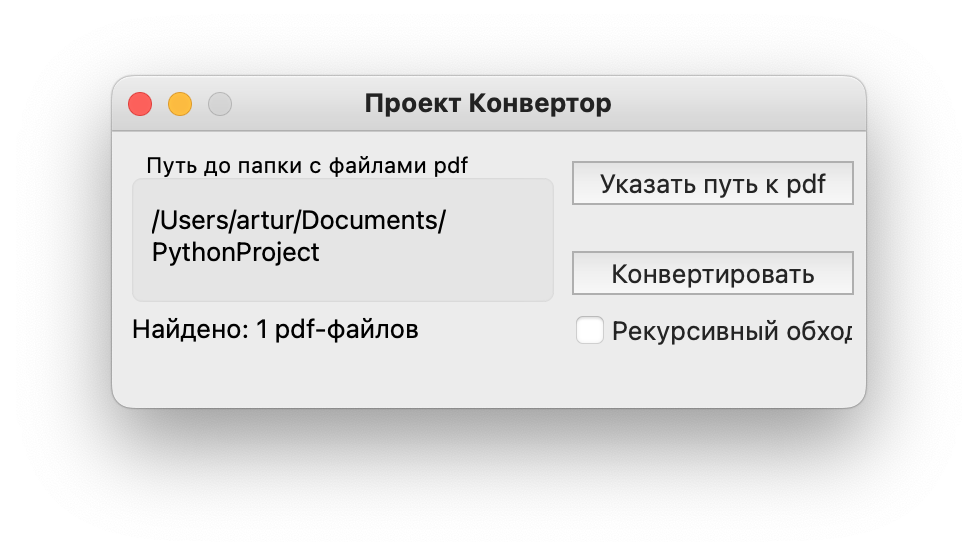
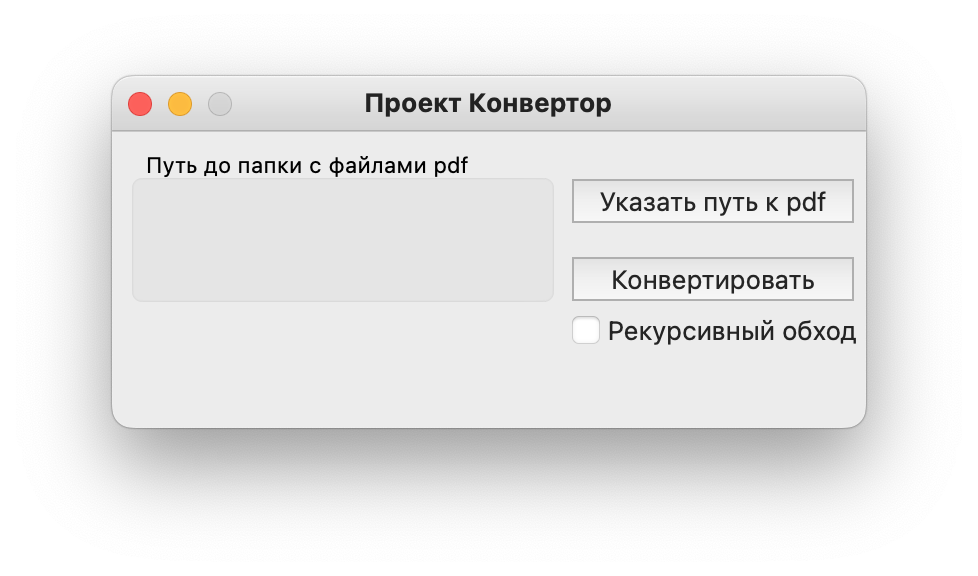
Update view for MacOS and Windows

diff --git a/UI.py b/UI.py
@@ -7,13 +7,14 @@
 
 
 from PyQt6 import QtCore, QtGui, QtWidgets
+import os
 
 
 class Ui_MainWindow(object):
     def setupUi(self, MainWindow):
         MainWindow.setObjectName("MainWindow")
         MainWindow.setWindowModality(QtCore.Qt.WindowModality.NonModal)
-        MainWindow.setFixedSize(377, 138) #При обновлении setFixedSize вылетает из UI.py, в Qt Designer не нашел способ установки параметра setFixedSize.
+        MainWindow.setFixedSize(377, 148) #При обновлении setFixedSize вылетает из UI.py, в Qt Designer не нашел способ установки параметра setFixedSize.
         sizePolicy = QtWidgets.QSizePolicy(QtWidgets.QSizePolicy.Policy.Fixed, QtWidgets.QSizePolicy.Policy.Fixed)
         sizePolicy.setHorizontalStretch(0)
         sizePolicy.setVerticalStretch(0)
@@ -24,10 +25,19 @@ class Ui_MainWindow(object):
         self.centralwidget = QtWidgets.QWidget(MainWindow)
         self.centralwidget.setObjectName("centralwidget")
         self.pButtonPath = QtWidgets.QPushButton(self.centralwidget)
-        self.pButtonPath.setGeometry(QtCore.QRect(230, 10, 141, 31))
+                #Убираю проблемы с отображение в Windows и MacOS для кнопки Конвертировать
+        if os.name == "nt":
+            self.pButtonPath.setGeometry(QtCore.QRect(230, 10, 141, 31))
+        else:
+            self.pButtonPath.setGeometry(QtCore.QRect(230, 19, 141, 31))
+ 
         self.pButtonPath.setObjectName("pButtonPath")
         self.pButtonStart = QtWidgets.QPushButton(self.centralwidget)
-        self.pButtonStart.setGeometry(QtCore.QRect(230, 55, 141, 31))
+        #Убираю проблемы с отображение в Windows и MacOS для кнопки Конвертировать
+        if os.name == "nt":
+            self.pButtonStart.setGeometry(QtCore.QRect(230, 55, 141, 31))
+        else:
+            self.pButtonStart.setGeometry(QtCore.QRect(230, 58, 141, 31))
         self.pButtonStart.setObjectName("pButtonStart")
         self.groupBox = QtWidgets.QGroupBox(self.centralwidget)
         self.groupBox.setGeometry(QtCore.QRect(10, 6, 211, 80))
@@ -43,7 +53,11 @@ class Ui_MainWindow(object):
         self.labelFound.setText("")
         self.labelFound.setObjectName("labelFound")
         self.checkBoxRec = QtWidgets.QCheckBox(self.centralwidget)
-        self.checkBoxRec.setGeometry(QtCore.QRect(230, 90, 141, 18))
+        #Убираю проблемы с отображение в Windows и MacOS для чека Рекурсивный обход
+        if os.name == "nt":
+            self.checkBoxRec.setGeometry(QtCore.QRect(230, 90, 141, 18))
+        else:
+            self.checkBoxRec.setGeometry(QtCore.QRect(228, 90, 145, 18))
         self.checkBoxRec.setObjectName("checkBoxRec")
         MainWindow.setCentralWidget(self.centralwidget)
         self.menubar = QtWidgets.QMenuBar(MainWindow)

diff --git a/Run.py b/Run.py
@@ -17,7 +17,7 @@ PATH_FILE_OUT = os.path.join(os.path.dirname(__file__),"out")
 class App(QtWidgets.QMainWindow, UI.Ui_MainWindow, Controller):
     list_path=[]
     def __init__(self) ->None:
-        super().__init__()        
+        super().__init__()    
         self.setWindowIcon(QIcon(ICON)) 
         self.setupUi(self)   
 

diff --git a/README.md b/README.md
@@ -40,5 +40,4 @@
 
 <h2>Проблемы требующие решения:</h2>
 <ul>
-<li>То что отображается в Windows (Меню, блок рекурсивного обхода уполз влево) не отображается на MacOS.</li>
 <li>Разные способы установки библиотек, требуется оптимизация скриптами.</li></ul>
